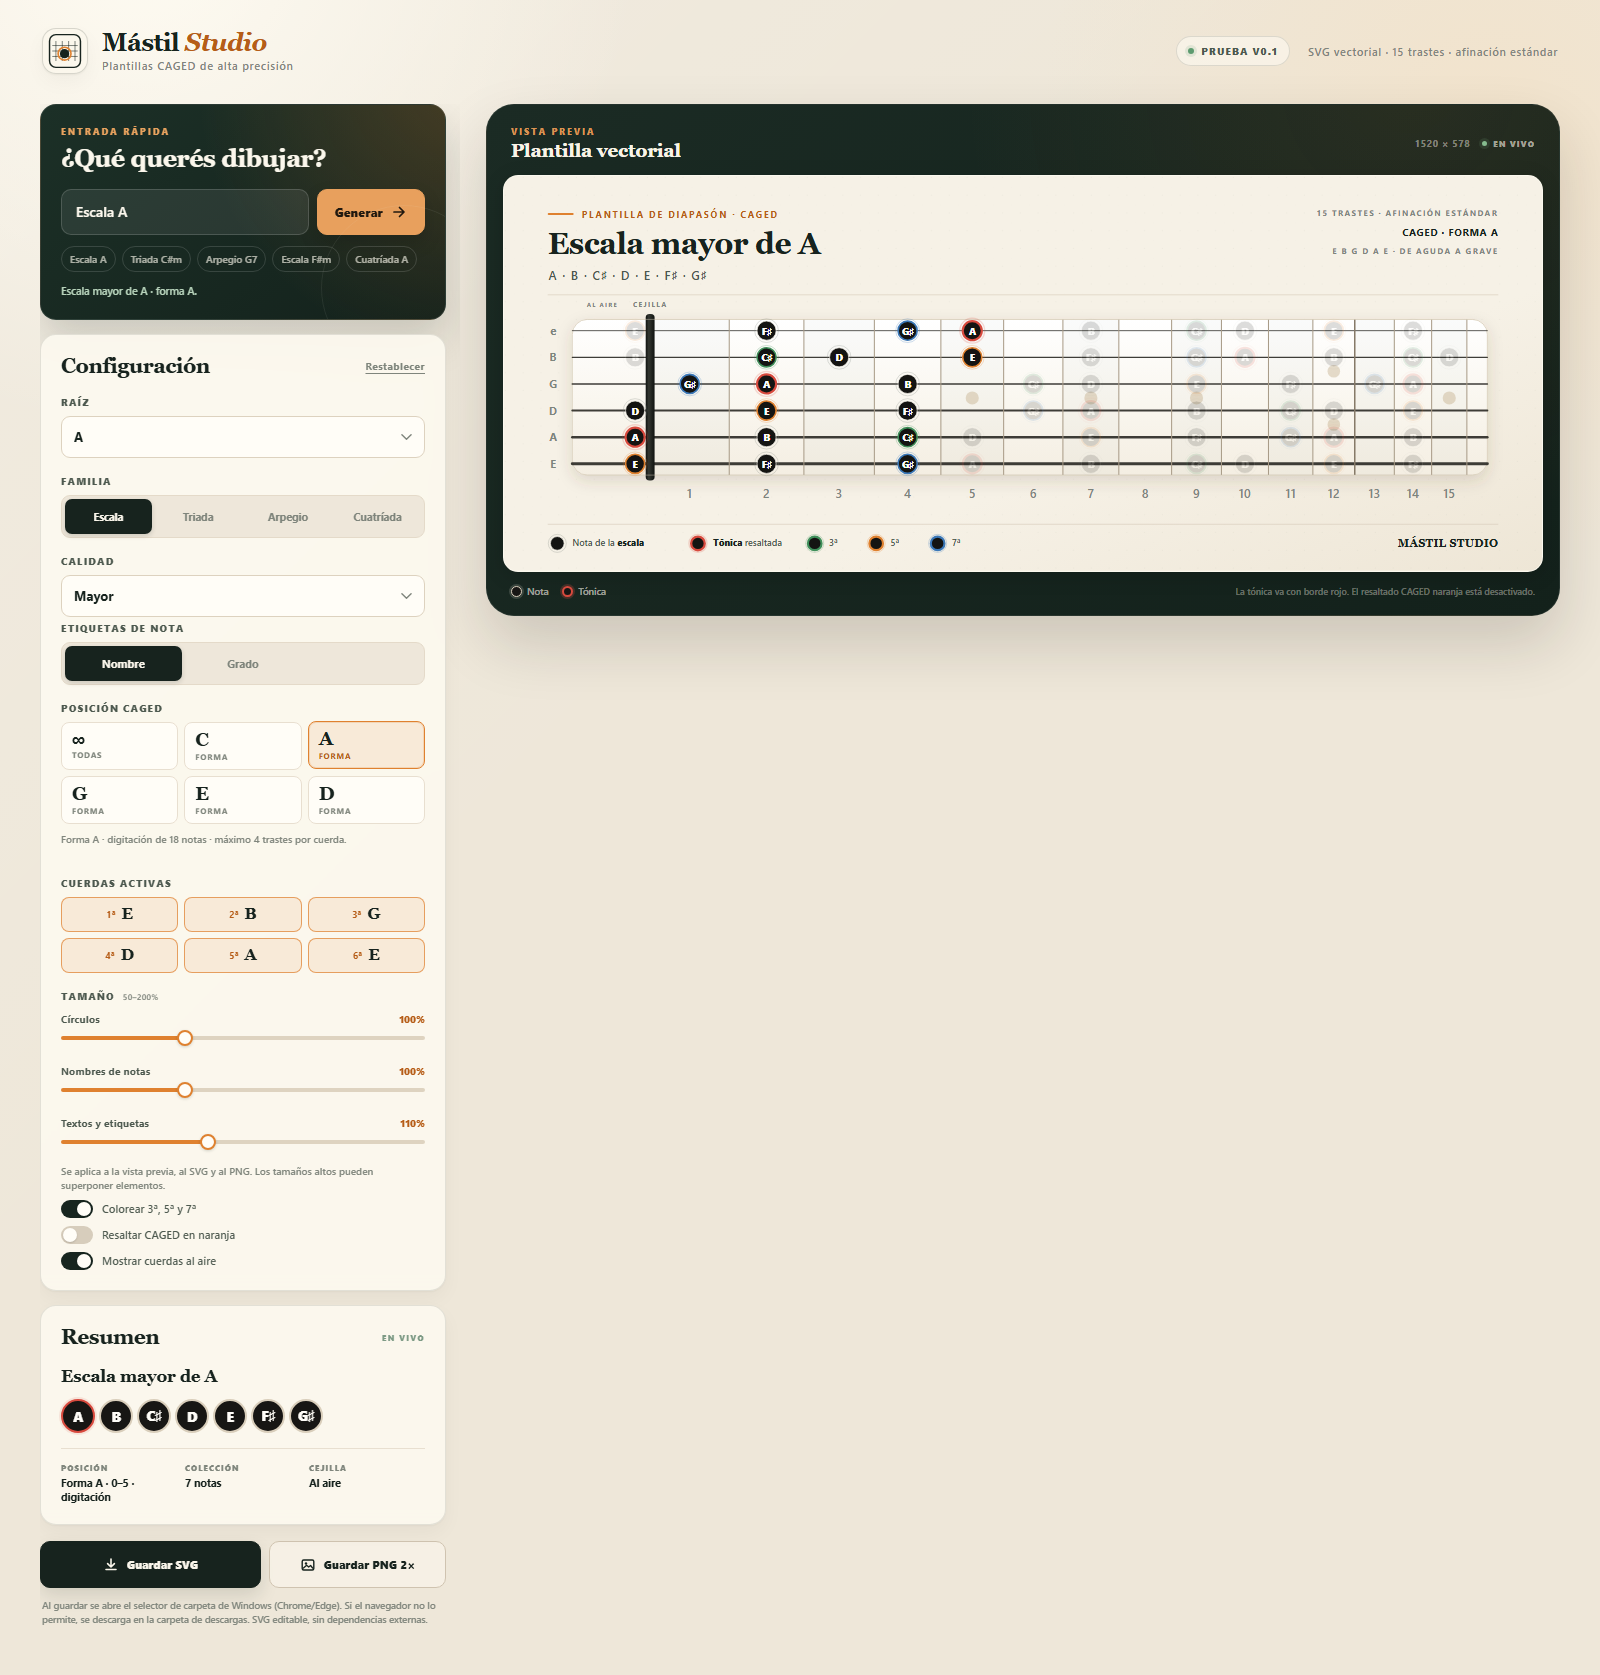
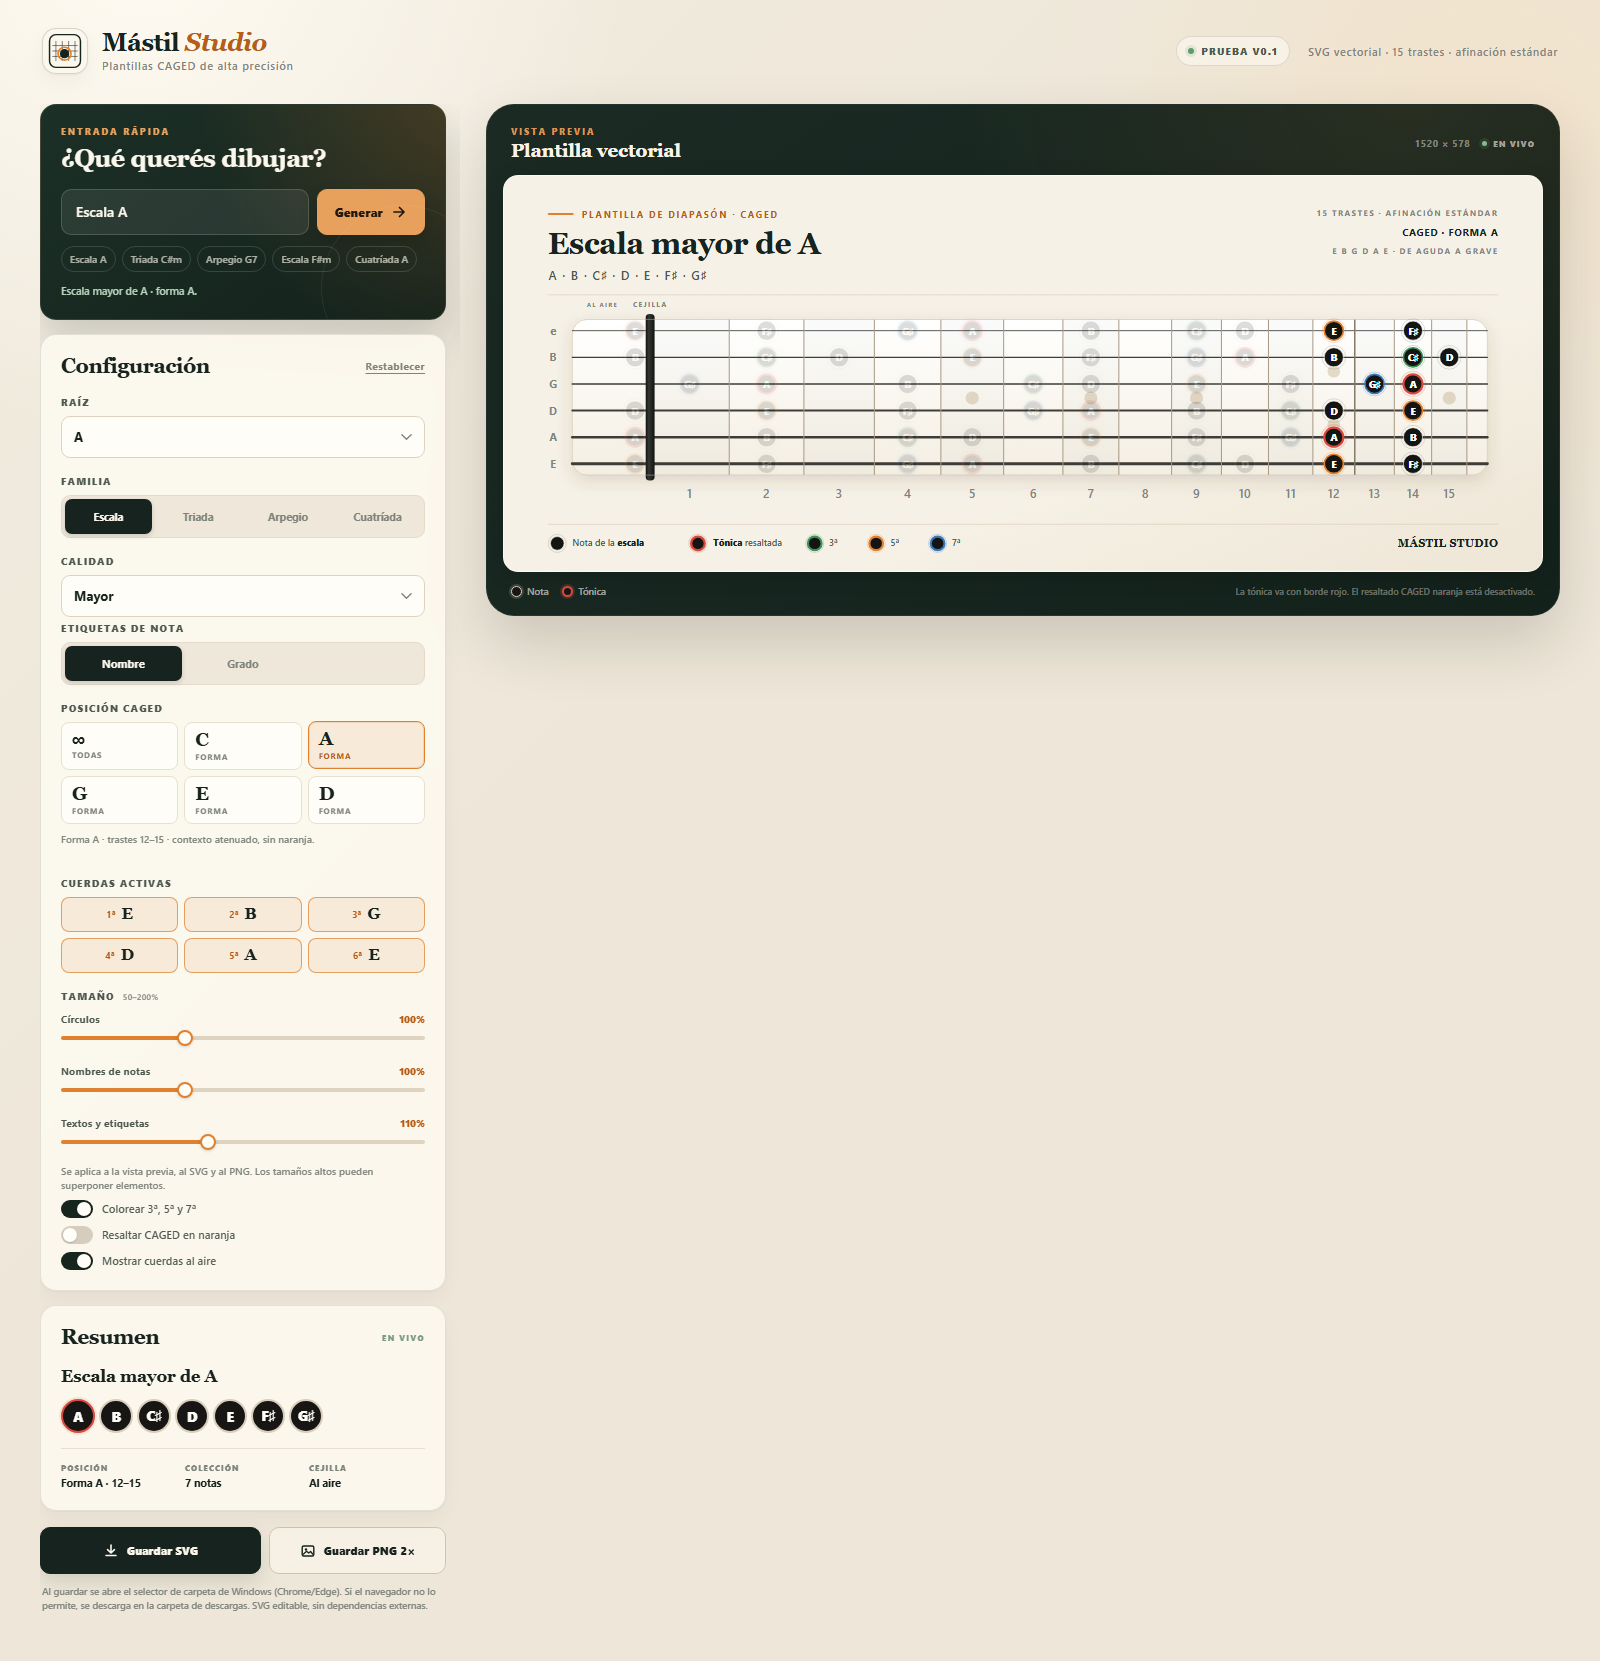
Mástil Studio v1.4
A se traslada a la octava alta (La mayor 12-15) para no superponerse con G; G 1-5, D 6-10, C 9-12, E 4-7.

diff --git a/src/fingering.js b/src/fingering.js
@@ -48,9 +48,16 @@ function groupPenalty(group, shape) {
   return penalty;
 }
 
-function groupsForString(string, scaleIndex, pitchSet, shape, padding = 0) {
-  const minFret = Math.max(0, shape.window.start - padding);
-  const maxFret = Math.min(15, shape.window.end + padding);
+function groupsForString(
+  string,
+  scaleIndex,
+  pitchSet,
+  shape,
+  startPadding = 0,
+  endPadding = 0,
+) {
+  const minFret = Math.max(0, shape.window.start - startPadding);
+  const maxFret = Math.min(15, shape.window.end + endPadding);
   const notes = [];
   for (let fret = minFret; fret <= maxFret; fret += 1) {
     const midi = OPEN_MIDI[string.index] + fret;
@@ -94,6 +101,8 @@ function buildScaleFingeringWithPadding({
   shape,
   notePcs,
   padding = 0,
+  startPadding = padding,
+  endPadding = padding,
   anchor = true,
 }) {
   if (!shape) return null;
@@ -101,7 +110,7 @@ function buildScaleFingeringWithPadding({
   const scaleIndex = buildScaleIndex(notePcs);
   const lowToHigh = [...STRINGS].reverse(); // string 6 first
   const groupsByString = lowToHigh.map((string) =>
-    groupsForString(string, scaleIndex, pitchSet, shape, padding),
+    groupsForString(string, scaleIndex, pitchSet, shape, startPadding, endPadding),
   );
 
   if (groupsByString.some((groups) => groups.length === 0)) return null;
@@ -182,6 +191,29 @@ function buildScaleFingeringWithPadding({
 }
 
 export function buildScaleFingering({ shape, notePcs }) {
+  // The upper A position is clipped at fret 15; never expand it backward into
+  // the G position. Only allow a little forward padding if needed.
+  if (shape?.id === 'A' && shape.window.start >= 12) {
+    return buildScaleFingeringWithPadding({
+      shape,
+      notePcs,
+      startPadding: 0,
+      endPadding: 0,
+    })
+      ?? buildScaleFingeringWithPadding({
+        shape,
+        notePcs,
+        startPadding: 0,
+        endPadding: 1,
+      })
+      ?? buildScaleFingeringWithPadding({
+        shape,
+        notePcs,
+        startPadding: 0,
+        endPadding: 2,
+      });
+  }
+
   return buildScaleFingeringWithPadding({ shape, notePcs, padding: 0 })
     ?? buildScaleFingeringWithPadding({ shape, notePcs, padding: 1 })
     ?? buildScaleFingeringWithPadding({ shape, notePcs, padding: 2 })

diff --git a/src/caged.js b/src/caged.js
@@ -124,7 +124,12 @@ function anchorFret(shapeId, rootPc) {
   }
 
   if (shapeId === 'A') {
-    return rootFretOnString(rootPc, 9);
+    const fret = rootFretOnString(rootPc, 9);
+    // The low A position (open strings) occupies the same frets as the G
+    // position. Use the next octave (A/12) so the CAGED positions do not
+    // overlap; the position is clipped by the 15-fret board.
+    if (rootPc === 9 && fret === 0) return 12;
+    return fret;
   }
 
   if (shapeId === 'G') {
@@ -254,6 +259,7 @@ export function getCagedShape(shapeId, rootPc, quality = 'major') {
       start: windowStart,
       end: windowEnd,
     },
+    clipped: windowStartFret < 0 || windowEndFret > 15,
     fretSpan: [minFret, maxFret],
   };
 }
@@ -278,6 +284,10 @@ export function completeScaleWindow(
   { minPerString = 2, maxFret = 15, maxSpan = 6 } = {},
 ) {
   const pitchSet = new Set(notePcs.map((pc) => mod(pc, 12)));
+  // The upper A position starts at A/12 on the 5th string and is clipped by
+  // the 15-fret board. Do not expand it back toward C/G: that would overlap
+  // the G position and defeat the purpose of moving A up an octave.
+  const preserveStart = shape.id === 'A' && shape.window.start >= 12;
   let start = shape.window.start;
   let end = shape.window.end;
 
@@ -309,7 +319,7 @@ export function completeScaleWindow(
     };
 
     const endScore = end < maxFret ? scoreSide(end + 1) : null;
-    const startScore = start > 0 ? scoreSide(start - 1) : null;
+    const startScore = start > 0 && !preserveStart ? scoreSide(start - 1) : null;
 
     const candidates = [
       endScore ? { side: 'end', ...endScore } : null,
@@ -383,7 +393,7 @@ export function completeScaleWindow(
         added: addedAt(end + 1),
       });
     }
-    if (start > 0) {
+    if (start > 0 && !preserveStart) {
       candidates.push({
         side: 'start',
         gaps: gapCount(start - 1, end),

diff --git a/tests/fingering.test.js b/tests/fingering.test.js
@@ -31,7 +31,11 @@ function buildAllFingerings() {
 
 test('fingerings use 2–3 notes per string, at most 4 frets, without gaps', () => {
   for (const { label, fingering } of buildAllFingerings()) {
-    assert.ok(fingering, `${label}: no fingering`);
+    if (!fingering) {
+      // The upper A position is clipped at fret 15 and is rendered as a map.
+      assert.ok(label.startsWith('A/') && label.endsWith('/pc9'), `${label}: no fingering`);
+      continue;
+    }
     assert.equal(fingering.groups.length, 6, `${label}: should cover six strings`);
 
     let previous = null;
@@ -57,20 +61,13 @@ test('fingerings use 2–3 notes per string, at most 4 frets, without gaps', () 
   }
 });
 
-test('A major A shape keeps open A/D and adds G-sharp on the first string', () => {
+test('A major A shape uses the upper octave and stays out of G', () => {
   const pcs = [9, 11, 1, 2, 4, 6, 8];
   const shape = completeScaleWindow(getCagedShape('A', 9, 'major'), pcs);
   const fingering = buildScaleFingering({ shape, notePcs: pcs });
 
-  assert.ok(fingering);
-  assert.deepEqual(shape.window, { start: 0, end: 5 });
-  assert.equal(fingering.groups[0].notes[0].fret, 0);
-
-  const positions = new Set(
-    fingering.notes.map((note) => `${note.stringIndex}:${note.fret}`),
-  );
-  assert.ok(positions.has('4:0'), 'A open on the 5th string');
-  assert.ok(positions.has('3:0'), 'D open on the 4th string');
-  assert.ok(positions.has('2:2'), 'A on the 3rd string, fret 2');
-  assert.ok(positions.has('0:4'), 'G♯ on the 1st string, fret 4');
+  assert.deepEqual(shape.window, { start: 12, end: 15 });
+  // The upper A position is clipped at fret 15; it intentionally falls back
+  // to the map instead of expanding backward into the G position.
+  assert.equal(fingering, null);
 });

diff --git a/tests/caged.test.js b/tests/caged.test.js
@@ -39,7 +39,7 @@ test('E-shape A major lands on the expected frets', () => {
 
 test('the five major shapes around A major are distinct CAGED positions', () => {
   const expected = {
-    A: { 0: 0, 1: 2, 2: 2, 3: 2, 4: 0 },
+    A: { 0: 12, 1: 14, 2: 14, 3: 14, 4: 12 },
     G: { 0: 5, 1: 2, 2: 2, 3: 2, 4: 4, 5: 5 },
     E: { 0: 5, 1: 5, 2: 6, 3: 7, 4: 7, 5: 5 },
     D: { 0: 9, 1: 10, 2: 9, 3: 7 },
@@ -55,7 +55,7 @@ test('the five major shapes around A major are distinct CAGED positions', () => 
 test('A major CAGED windows follow the anchored definitions', () => {
   const expected = {
     C: { start: 9, end: 12 },
-    A: { start: 0, end: 5 },
+    A: { start: 12, end: 15 },
     G: { start: 1, end: 5 },
     E: { start: 4, end: 7 },
     D: { start: 6, end: 10 },
@@ -126,6 +126,9 @@ test('completed CAGED scale positions always keep at least two notes per string'
 
     for (const shapeId of CAGED_ORDER) {
       const base = getCagedShape(shapeId, 9, collection.cagedQuality);
+      // The upper A position is clipped by the 15-fret board and is shown as
+      // a partial map; it cannot satisfy the two-notes-per-string invariant.
+      if (base.clipped) continue;
       const shape = completeScaleWindow(base, pcs);
       const counts = STRINGS.map((string) => {
         let count = 0;
@@ -149,7 +152,7 @@ test('A minor shapes place the flat third correctly', () => {
   assert.equal(eShape.notes.find((note) => note.stringIndex === 2).pc, 0);
 
   const aShape = getCagedShape('A', 9, 'minor');
-  assert.deepEqual(fretMap(aShape), { 0: 0, 1: 1, 2: 2, 3: 2, 4: 0 });
+  assert.deepEqual(fretMap(aShape), { 0: 12, 1: 13, 2: 14, 3: 14, 4: 12 });
 });
 
 test('every shape/quality/root combination stays inside 15 frets and on chord tones', () => {

diff --git a/tests/svg.test.js b/tests/svg.test.js
@@ -21,7 +21,7 @@ test('all-positions SVG is standalone and omits the CAGED overlay by default', (
   assert.match(svg, /^<svg xmlns="http:\/\/www\.w3\.org\/2000\/svg"/);
   assert.match(svg, /<title id="dsh-title">Escala mayor de A<\/title>/);
   assert.match(svg, /CAGED · TODAS/);
-  assert.doesNotMatch(svg, /A · 0–5/);
+  assert.doesNotMatch(svg, /A · 12–15/);
   assert.doesNotMatch(svg, /C · 9–12/);
   assert.doesNotMatch(svg, /<path class="shape-hull"/);
   assert.match(svg, /class="note is-root"/);
@@ -40,7 +40,7 @@ test('the CAGED overlay is optional and includes rail tags when enabled', () => 
     showCagedOverlay: true,
   });
 
-  assert.match(svg, /A · 0–5/);
+  assert.match(svg, /A · 12–15/);
   assert.match(svg, /C · 9–12/);
   assert.match(svg, /Posiciones CAGED/);
 });
@@ -356,7 +356,7 @@ test('A major A-shape includes C-sharp and F-sharp', () => {
     colorRoles: false,
   });
 
-  assert.deepEqual(diagram.shape.window, { start: 0, end: 5 });
+  assert.deepEqual(diagram.shape.window, { start: 12, end: 15 });
   const labels = [...diagram.svg.matchAll(/class="note-label"[^>]*>([^<]+)<\/text>/g)]
     .map((match) => match[1]);
   assert.ok(labels.includes('C♯'));

diff --git a/tests/scale-coverage.test.js b/tests/scale-coverage.test.js
@@ -45,6 +45,8 @@ test('every completed scale window is continuous note-to-note', () => {
 
       for (const shapeId of CAGED_ORDER) {
         const base = getCagedShape(shapeId, rootPc, quality.id);
+        // Partial positions clipped by the 15-fret board are shown as maps.
+        if (base.clipped) continue;
         const shape = completeScaleWindow(base, pitchClasses);
         const label = `${shapeId}/${quality.id}/pc${rootPc}`;
 

diff --git a/README.md b/README.md
@@ -16,8 +16,9 @@ Versiones guardadas:
 - [v1.1](versions/v1.1): antes de la nueva lógica de digitaciones.
 - [v1.2](versions/v1.2): digitaciones de 2–3 notas por cuerda.
 - [v1.3](versions/v1.3): ventanas CAGED A/G/D corregidas y ajustes visuales.
+- [v1.4](versions/v1.4): forma A trasladada a 12–15 para no superponerse con G.
 
-ZIPs: [v1.0](versions/mastil-studio-v1.0.zip) · [v1.1](versions/mastil-studio-v1.1.zip) · [v1.2](versions/mastil-studio-v1.2.zip) · [v1.3](versions/mastil-studio-v1.3.zip).
+ZIPs: [v1.0](versions/mastil-studio-v1.0.zip) · [v1.1](versions/mastil-studio-v1.1.zip) · [v1.2](versions/mastil-studio-v1.2.zip) · [v1.3](versions/mastil-studio-v1.3.zip) · [v1.4](versions/mastil-studio-v1.4.zip).
 
 ## Probar
 
@@ -93,7 +94,7 @@ Vista rápida de la plantilla completa:
 
 ![Plantilla de escala mayor de A](docs/escala-a-mayor.png)
 
-Forma A anclada a **0–5**: A y D quedan al aire, A aparece en G/2 y en la 1ª cuerda/5, y se agrega **G♯ en la 1ª cuerda, traste 4**. La digitación usa 2–3 notas por cuerda y no contiene C ni F naturales.
+En La mayor, la forma A se traslada a **12–15** para no superponerse con G (1–5). Queda **parcial**, porque la tónica de la 1ª cuerda estaría en el traste 17 y el mástil llega a 15. La escala empieza con la posición **G** y la forma A aparece al final del mástil.
 
 ![Escala mayor de A en forma A](docs/escala-a-mayor-forma-a.png)
 
@@ -173,7 +174,7 @@ const { svg } = buildDiagram({
 - **Cuerdas al aire en voicings.** No cuentan para la extensión de la mano: un voicing como `0-0-0-11` es válido aunque su extensión total supere 5 trastes.
 - **Tipografía de cabecera.** Título y subtítulo se separan dinámicamente cuando `typeScale` crece; el crecimiento del encabezado se limita a 1,4× para no invadir el mástil.
 - **CAGED por ventanas.** Cada forma tiene una ventana de 3–6 trastes y una tónica de referencia. Al elegir una forma se atenúan las notas fuera de la ventana y se resalta la tríada que define esa forma. Las definiciones usadas son:
-  - **A:** de la tónica de 5ª a la tónica de 1ª.
+  - **A:** de la tónica de 5ª a la tónica de 1ª. En La mayor se usa la octava alta (12–15) para no superponerse con G; queda parcial por el límite de 15 trastes.
   - **G:** de un traste antes de la tónica de 3ª a las tónicas de 1ª/6ª.
   - **D:** de un traste antes de la tónica de 4ª a la tónica de 2ª.
   - **C y E:** se mantienen como estaban.
@@ -183,7 +184,7 @@ const { svg } = buildDiagram({
 
 ## Próximos pasos sugeridos
 
-1. **Auditar todas las digitaciones** de escalas, triadas, arpegios y cuatríadas: anclaje CAGED, span mínimo y familias horizontal/diagonal. La forma A de La mayor ya quedó anclada a 0–5 con A/D al aire, G♯ en 1ª/4 y A en 1ª/5.
+1. **Auditar todas las digitaciones** de escalas, triadas, arpegios y cuatríadas: anclaje CAGED, span mínimo y familias horizontal/diagonal. La forma A de La mayor se movió a 12–15 para no superponerse con G; queda parcial por el límite de 15 trastes.
 2. Cejilla móvil real: transportar el diagrama según el traste de cejilla.
 3. Traste máximo ajustable con lienzo dinámico (base ya preparada).
 4. Inversiones 1ª, 2ª y 3ª de cuatríadas, más otras octavas y juegos de cuerdas.
